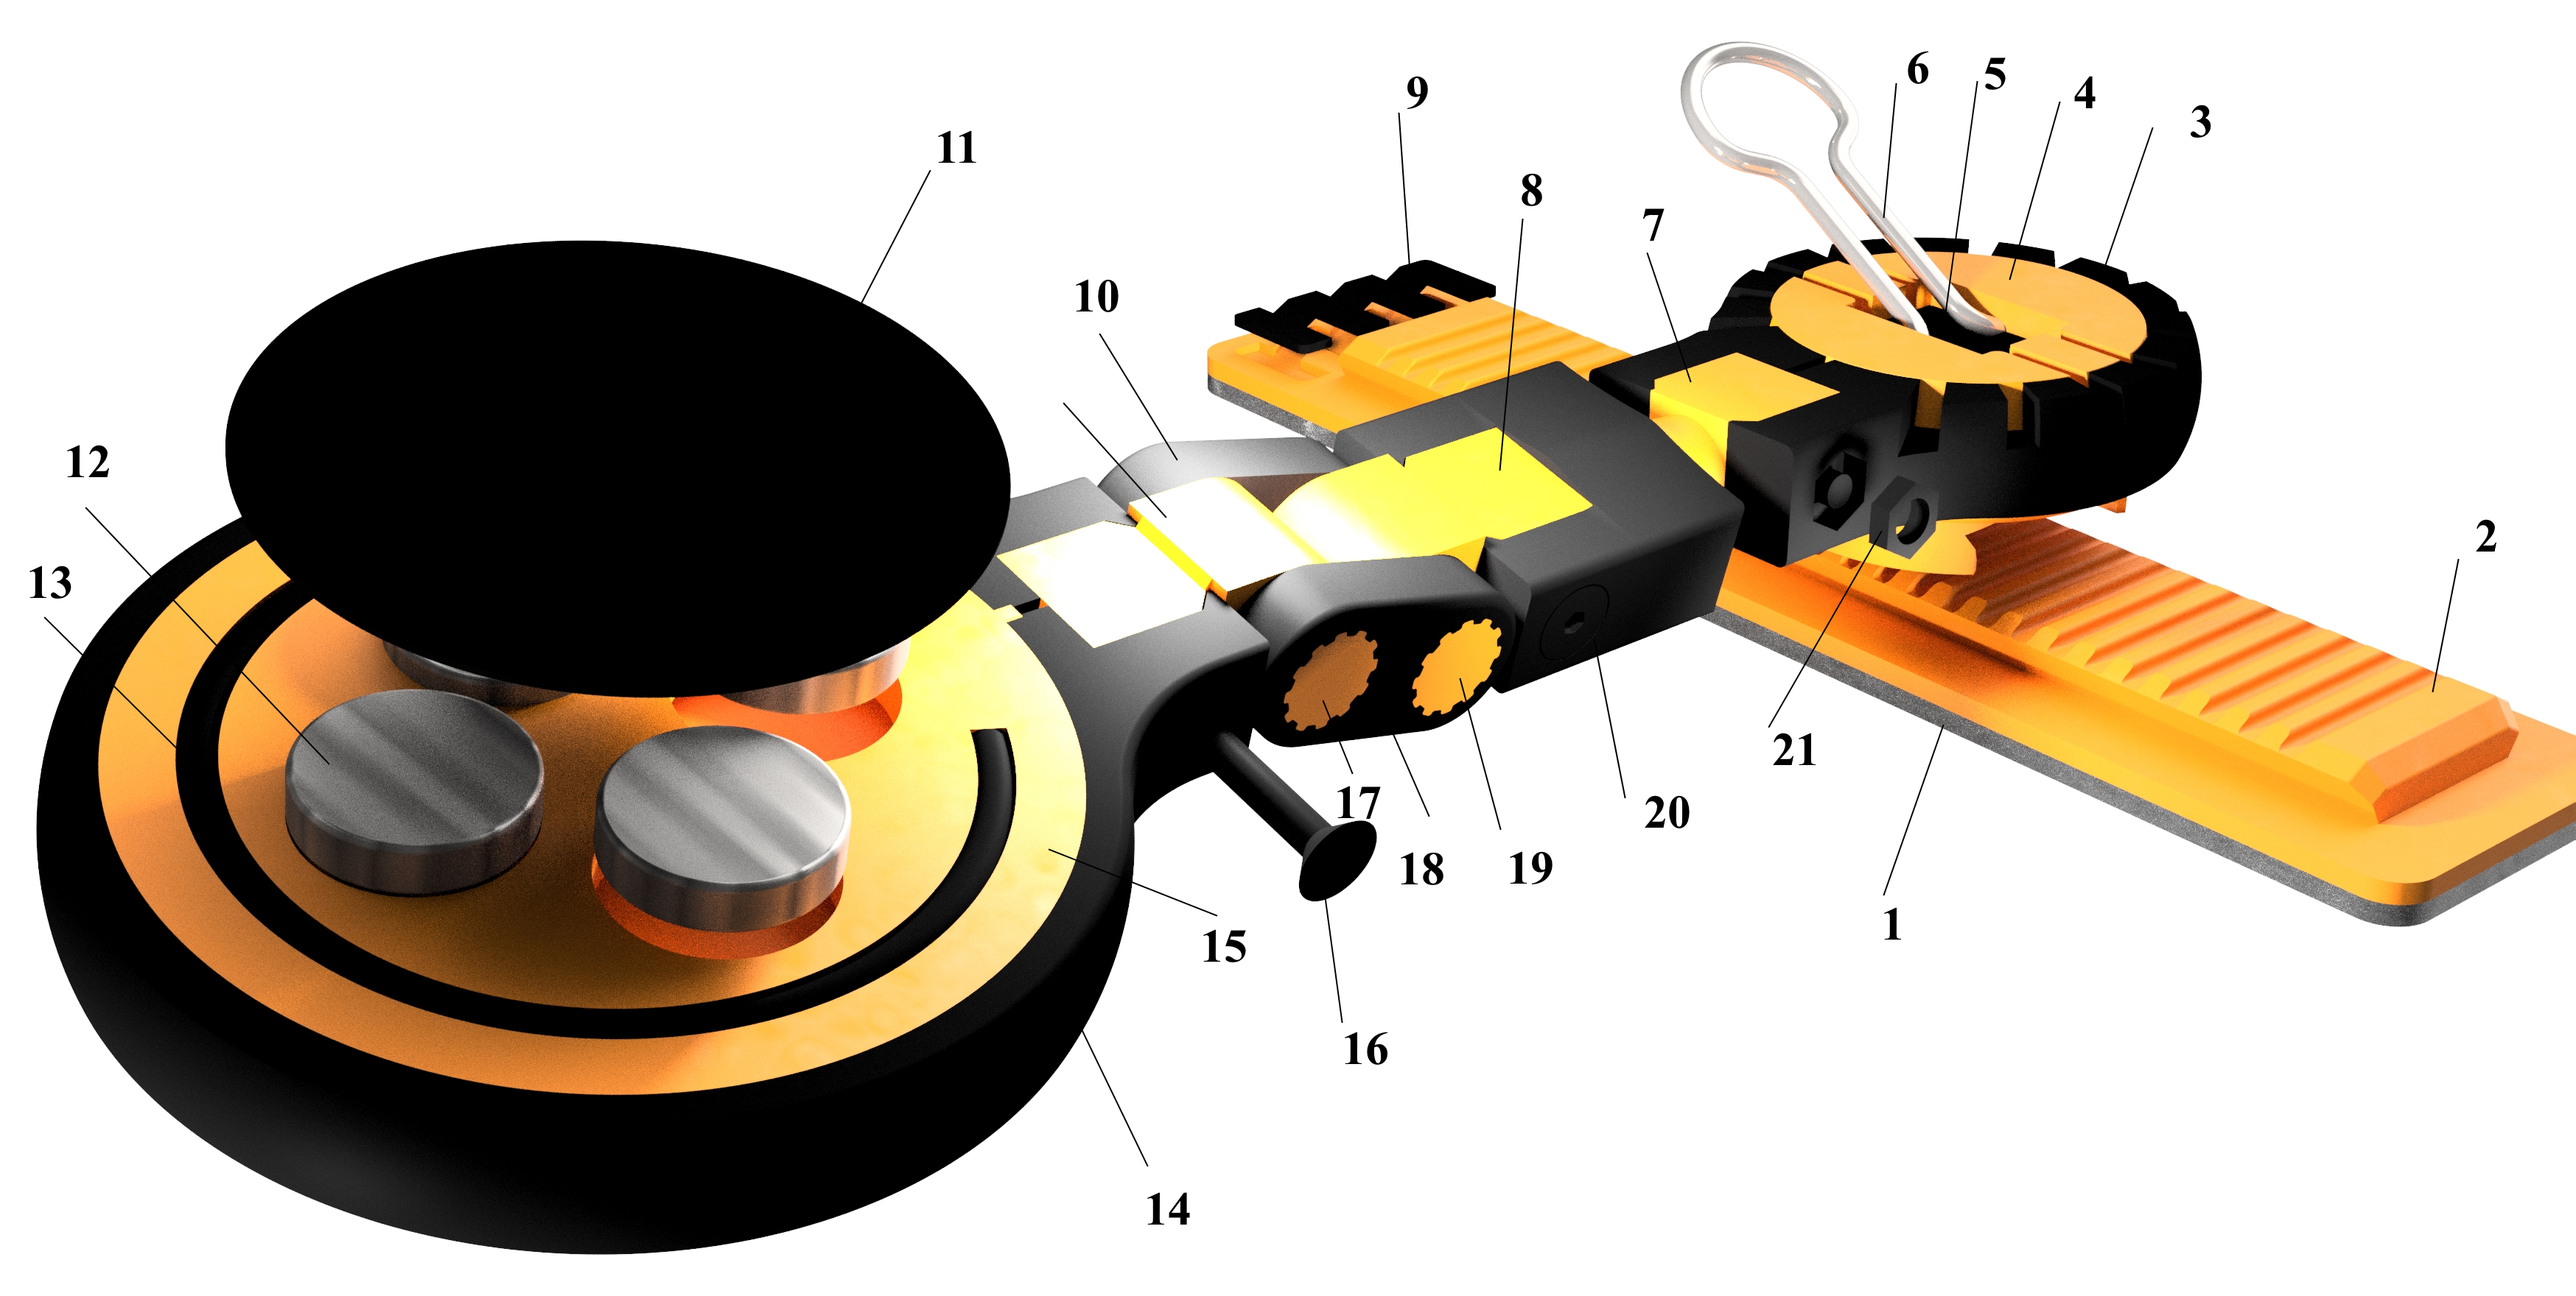
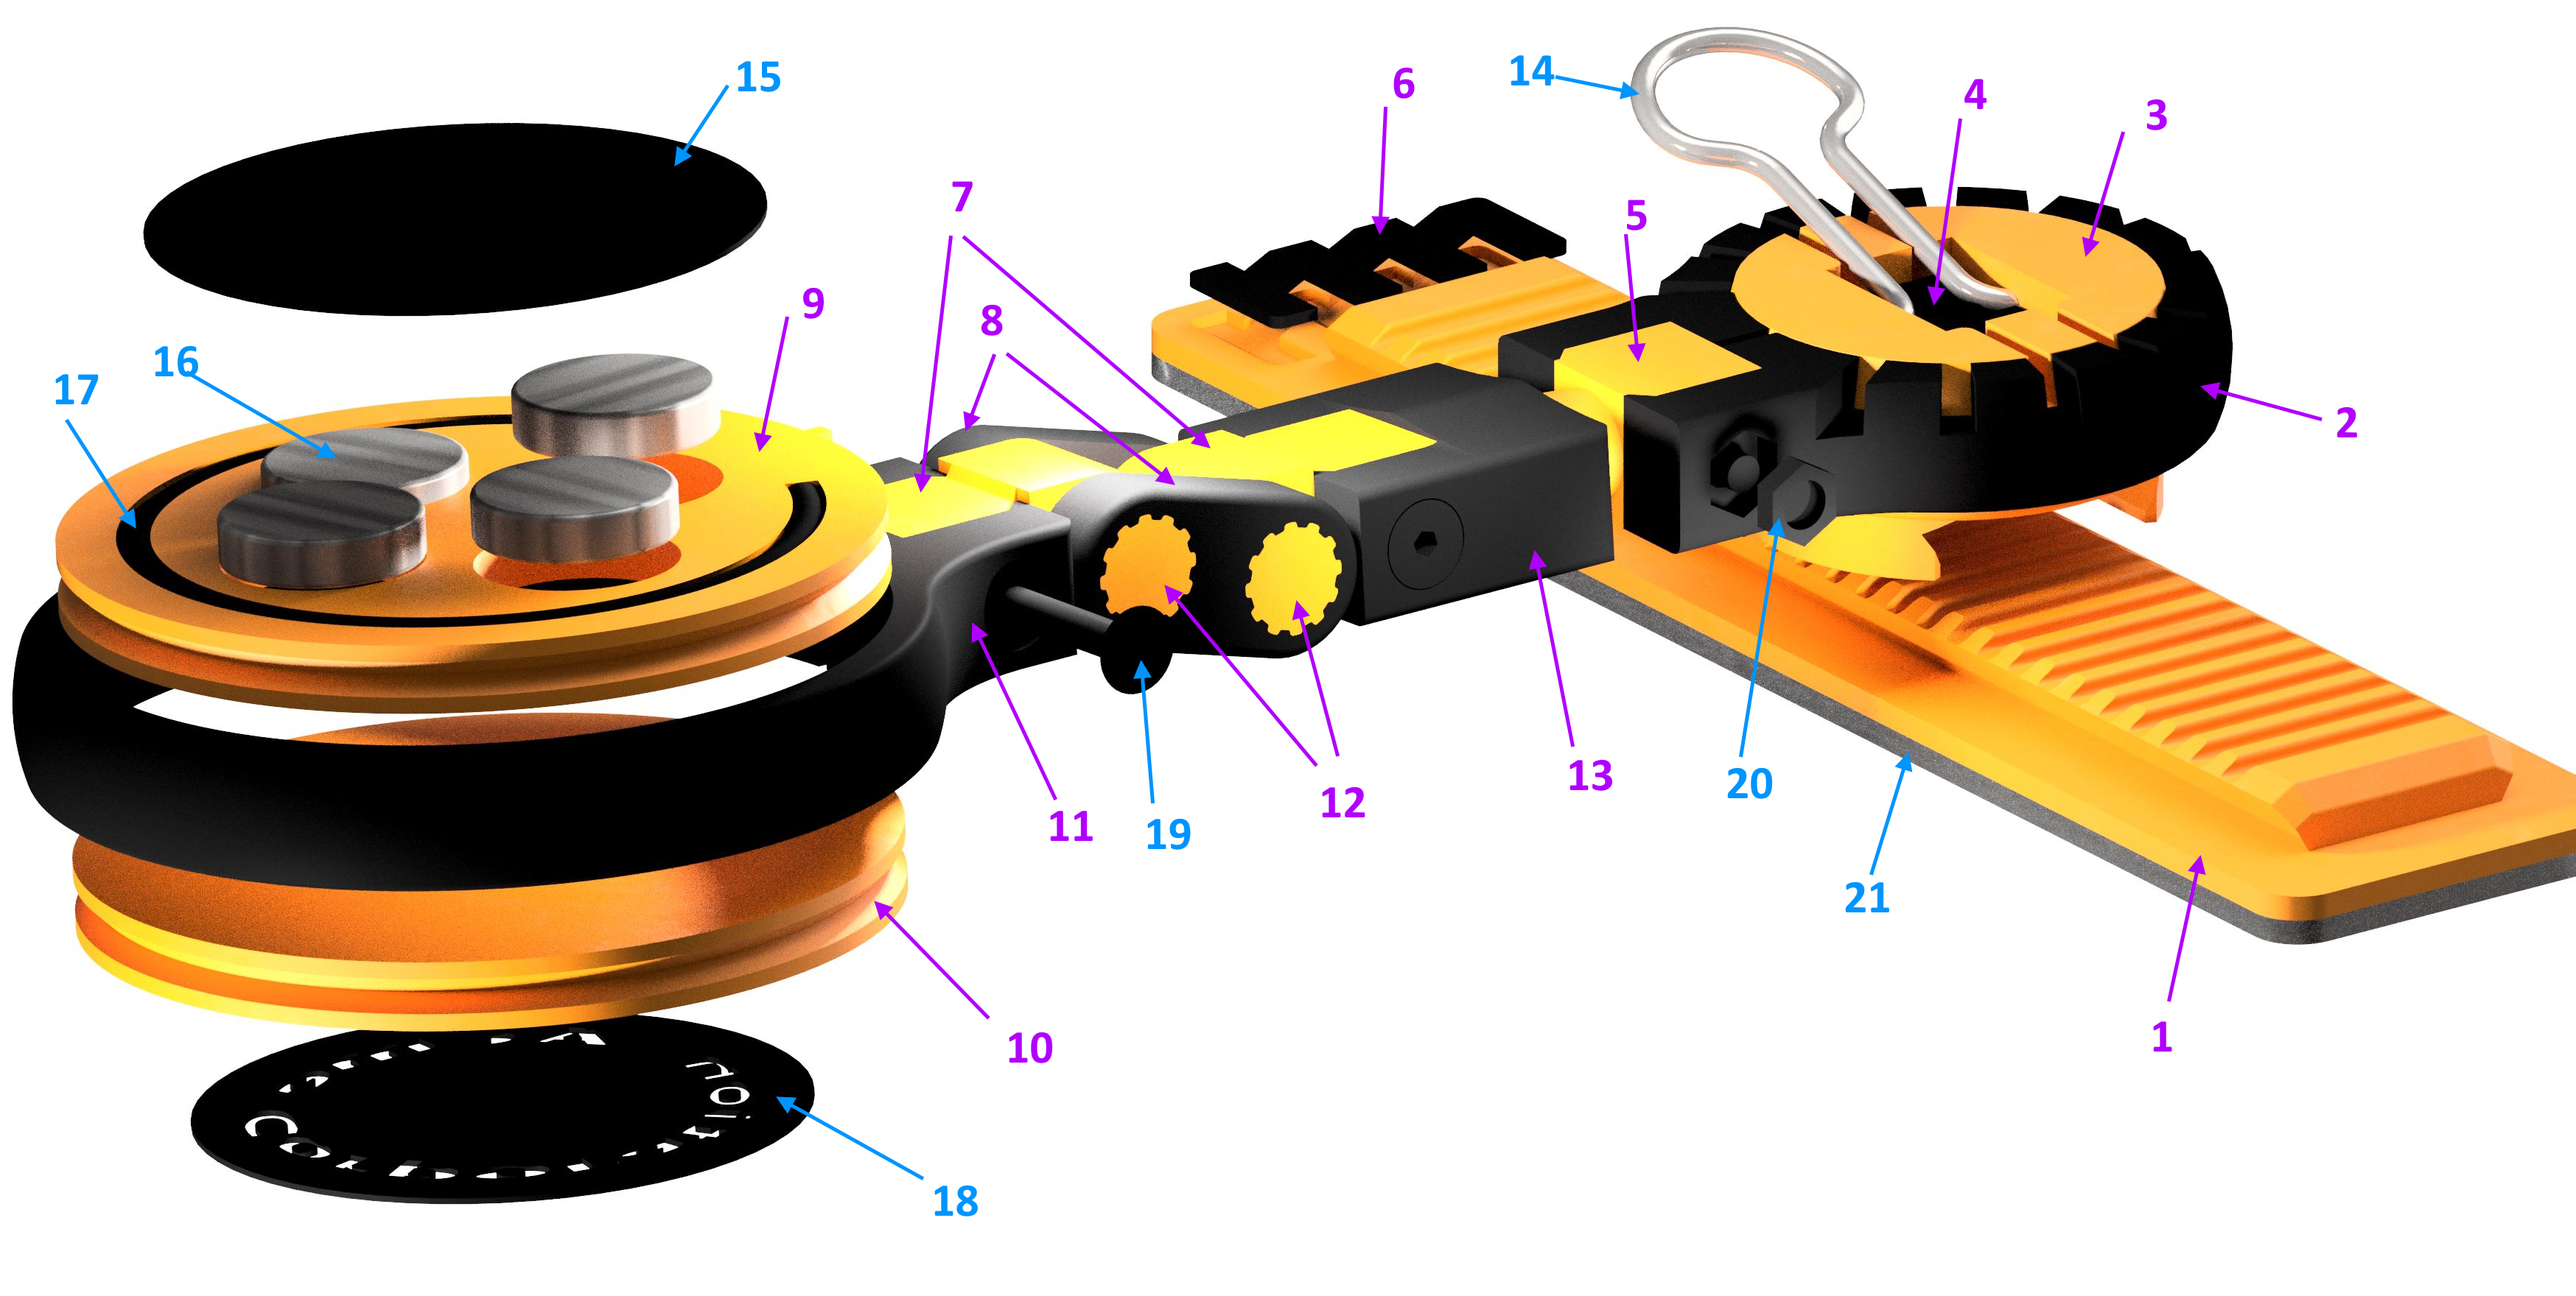
Uodate component diagram and description

diff --git a/README.md b/README.md
@@ -8,9 +8,33 @@ This work is licensed under the CC0 1.0 Universal license terms. Refer to the Li
 
 ## Components
 
-### Printed Parts
+### 3D-Printed Parts
 
-| Index | STL File Name | Material | Description |
-| ----- | ------------- | -------- | ----------- |
-| 2     | base.stl      | PETG     | Mounting base. he mounting base is the interface between the host and the holder. It attaches to the host using double-sided tape (1). It reamains attached to the host during normal operation. |
+| Index | STL File Name | Material |
+| ----- | ------------- | -------- |
+| 1     | base.stl                 | PETG |
+| 2     | slider-bracket.stl       | PC   |
+| 3     | slider.stl               | PETG |
+| 4     | slider-lock.stl          | PC   |
+| 5     | axle.stl                 | PC   |
+| 6     | -                        | PETG |
+| 7     | arm-bracket.stl          | PC   |
+| 8     | arm-top.stl              | PC   |
+| 9     | holder-insert-mag.stl    | PETG |
+| 10    | holder-insert-no-mag.stl | PETG |
+| 11    | holder-bracket.stl       | PC   |
+| 12    | arm.stl                  | PC   |
+| 13    | slider-connector.stl     | PC   |
 
+### Hardware
+
+| Index | Dedscription  |
+| ----- | ------------- |
+| 14    | Binder clip wire |
+| 15    | Vinyl decal - magnet side |
+| 16    | Magnets - 4 x N52 1/2 1/8 |
+| 17    | Silicone ring - Scunci No-slip Grip Evolution Bright Jelly Ponytailers |
+| 18    | Branding vinyl decal - non-magnet side |
+| 19    | 4-40 x 3/4 hex flat head cap screw |
+| 20    | 18-8 4-40 black oxide small pattern nut |
+| 21    | Natural polyurethane double coated foam tape 1" width | 
